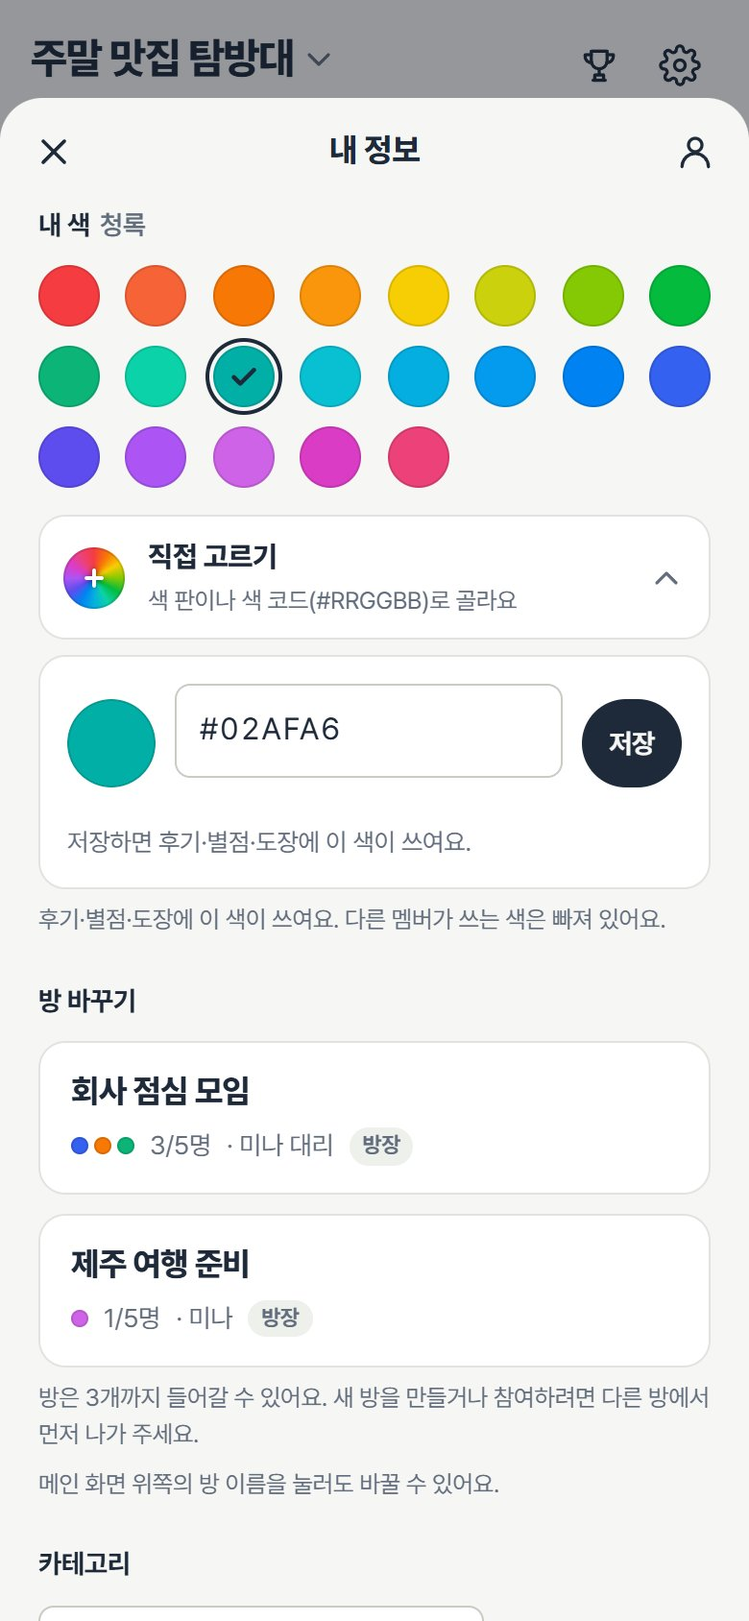
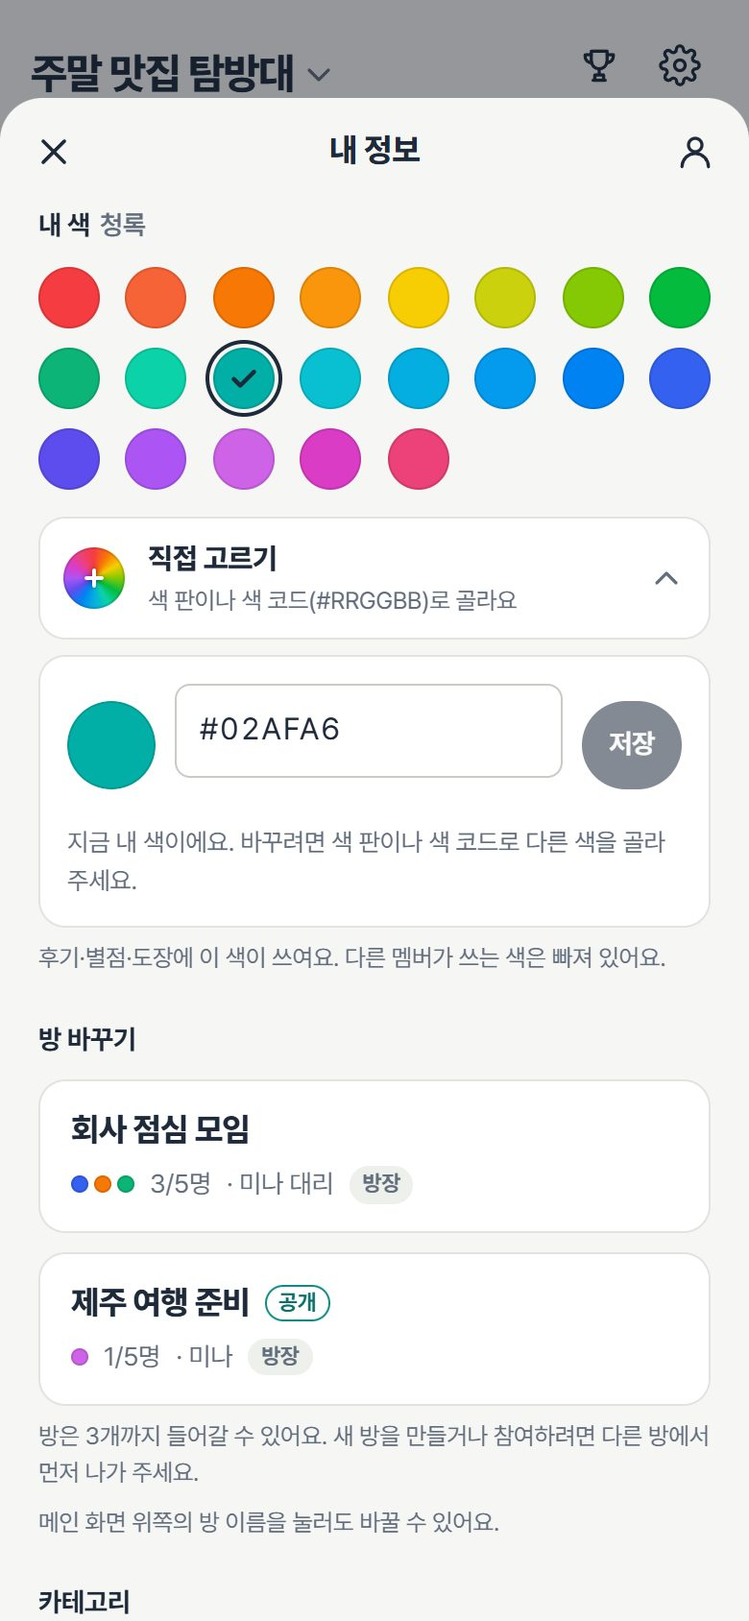
README: v0.2.0 public rooms, new screenshots, English README (README.en.md)

diff --git a/README.md b/README.md
@@ -8,6 +8,8 @@
   친구들과 함께 가고 싶은 곳을 모으고, 다녀온 곳엔 방문할 때마다 각자 별점과 후기를 남기는 장소 기록 웹앱
 </p>
 
+<p align="center"><b>한국어</b> · <a href="README.en.md">English</a></p>
+
 <p align="center">
   <img alt="PWA" src="https://img.shields.io/badge/PWA-홈_화면_앱-1f6f5c">
   <img alt="Supabase" src="https://img.shields.io/badge/Supabase-Auth·Postgres·Storage-3ecf8e">
@@ -17,54 +19,66 @@
 </p>
 
 <p align="center">
-  <img src="docs/images/room-picker.jpg" width="23%" alt="방 고르기">
+  <img src="docs/images/picker.jpg" width="23%" alt="방 고르기와 공개 방 둘러보기">
   <img src="docs/images/main.jpg" width="23%" alt="5명 방의 장소 목록">
-  <img src="docs/images/reviews.jpg" width="23%" alt="닉네임별 방문 후기">
-  <img src="docs/images/colors.jpg" width="23%" alt="무지개 24색과 직접 고르기">
+  <img src="docs/images/visit.jpg" width="23%" alt="공개 방 읽기 전용 보기">
+  <img src="docs/images/copy.jpg" width="23%" alt="내 방에 담기">
 </p>
 
 > 화면은 예시 데이터로 찍었습니다. 사진은 예시용으로 생성한 이미지이고, 실제 사용자 정보는 들어 있지 않습니다.
+
+## v0.2.0 새로 생긴 것: 공개 방
+
+- **공개 방 만들기**: 방을 만들 때 개인/공개를 고릅니다(만든 뒤에는 바꿀 수 없음). "자랑하고 싶은 우리 지도" 같은 목록을 공개 방으로 만들어 보세요.
+- **둘러보기**: 방 고르기 화면, 방 바꾸기 시트, 시작하기 화면의 🔍로 다른 사람들의 공개 방을 찾아 **읽기 전용**으로 봅니다(지금은 로그인한 사용자만).
+- **내 방에 담기**: 마음에 드는 장소를 내 방 중 하나에 담습니다. 기본은 "가고 싶은 곳"입니다.
+- **초대 코드 다시 만들기**: 방장은 내 정보에서 새 초대 코드를 만들 수 있고, 예전 코드는 바로 못 쓰게 됩니다.
+
+<p align="center">
+  <img src="docs/images/create-public.jpg" width="23%" alt="공개 방 만들기와 동의">
+  <img src="docs/images/explore.jpg" width="23%" alt="공개 방 둘러보기">
+  <img src="docs/images/join-consent.jpg" width="23%" alt="공개 방 참여 안내">
+  <img src="docs/images/invite-regen.jpg" width="23%" alt="초대 코드 다시 만들기">
+</p>
+
+| 공개 방에서 보이는 것 | 보이지 않는 것 |
+|---|---|
+| 장소·카테고리·주소·지도 링크, 함께 쓰는 메모, 사진(썸네일 중심), 방문한 **달**, 별점·후기, 닉네임 | 아이디, 초대 코드, 찜, 정확한 날짜, 월드컵 기록 |
+
+공개 방은 한 사람이 방장인 방 1개까지, 7일에 1개(지운 방 포함), 전체 30개까지입니다. 공개 방에 참여하거나 그 방 코드로 가입할 때는 안내를 읽고 동의해야 합니다.
+
+## 지금 되는 것
+
+**방(그룹)**
+- 방 하나에 최대 5명, 한 사람은 최대 3개 방까지. 로그인하면 방을 고르고, 메인 맨 위 **방 이름 ⌄**를 누르면 누구나 방을 바꾸거나 새로 만들고 코드로 참여합니다.
+- 초대 코드는 첫 멤버가 들어올 때까지 메인에 보이고, 그 뒤로는 멤버 모두가 내 정보에서 봅니다. 5명이 차 있을 때만 참여가 막힙니다.
+- 방 이름은 만들 때 정하고 방장만 바꿉니다. 나가기는 내 정보 맨 아래에 있고, 내 후기와 월드컵 기록이 지워집니다. 방장이 나가면 가장 먼저 들어온 멤버가 방장이 되고, 마지막 한 명이 나가면 방이 지워집니다.
+
+**멤버 색**
+- 화사한 무지개 24색 중 방 안에서 겹치지 않게 처음엔 무작위로 정해지고, 내 정보에서 바꿉니다.
+- **직접 고르기**로 색 판이나 색 코드(#RRGGBB)로 아무 색이나 정합니다. 다른 멤버 색과 거의 같으면 막고, 비슷하면 알려 줍니다.
+
+**기록**
+- 장소: 이름, 카테고리, 지도 링크, 주소, 함께 쓰는 메모, 사진 최대 10장. 네이버 지도 공유 문구나 구글 지도 링크를 붙여넣으면 이름·주소가 자동으로 채워집니다.
+- 세 가지 목록(가고 싶은 곳 / 다녀온 곳 / 찜), 검색(✕로 바로 지우기)과 카테고리 필터, 정렬.
+- 방문마다 날짜와 멤버별 별점(0.5점 단위)·후기. 장소 월드컵으로 다녀온 곳 중 최고의 장소를 뽑고, 각자 고른 1위에 그 사람 색 도장이 찍힙니다.
+
+**계정**
+- 아이디 + 비밀번호 로그인(메일 없음). 관리자가 만든 1회용 가입 코드(`W-XXXX-XXXX`)나 방의 8자리 초대 코드로 가입합니다. 틀린 코드는 접속한 곳마다 시간당 5회까지입니다(성공은 세지 않음).
+- 비밀번호 변경과 로그아웃은 별도 **계정 설정** 화면에 있습니다. 다크 모드를 지원하고, 홈 화면에 추가하면 앱처럼 열립니다.
+
+<p align="center">
+  <img src="docs/images/room-menu.jpg" width="23%" alt="방 이름을 눌러 방 바꾸기">
+  <img src="docs/images/reviews.jpg" width="23%" alt="닉네임별 방문 후기">
+  <img src="docs/images/colors.jpg" width="23%" alt="무지개 24색과 직접 고르기">
+  <img src="docs/images/dark.jpg" width="23%" alt="다크 모드">
+</p>
 
 ## 홍보 영상
 
 <a href="promo/promo-30s.mp4"><img src="promo/storyboard.jpg" alt="30초 홍보 영상 스토리보드 (누르면 영상)" width="100%"></a>
 
 30초 세로 영상: [promo/promo-30s.mp4](promo/promo-30s.mp4). 실제 앱 화면을 예시 데이터로 조작해 녹화했습니다(그룹 기능 이전 화면).
-
-## 지금 되는 것
-
-| 기능 | 내용 |
-|---|---|
-| 방(그룹) | 방 하나에 최대 5명, 한 사람이 최대 3개 방까지. 로그인하면 방을 고르고, 메인 위쪽 방 이름(⌄)을 누르면 누구나 방을 바꾸거나 새 방 만들기·코드로 참여(내 정보에서도 됨). 방 이름은 만들 때 정하고 방장만 바꿈 |
-| 멤버 색 | 화사한 무지개 24색 중 방 안에서 겹치지 않게 처음엔 무작위로 정해지고, 내 정보에서 바꿈. 마지막 "직접 고르기"로 색 판이나 색 코드(#RRGGBB)로 아무 색이나 고를 수 있음(다른 멤버 색과 거의 같으면 막고, 비슷하면 알려 줌). 후기·별점·도장에 그 색이 쓰이고, 글씨에는 바탕에서 잘 읽히게 자동으로 진하게(어두운 화면은 밝게) 바꾼 색을 씀 |
-| 계정 설정 | 내 정보 맨 아래 "계정 설정"에서 비밀번호 변경·로그아웃·버전 확인. 내 정보에는 방에 관한 것만 |
-| 초대 코드 | 첫 멤버가 들어올 때까지 메인 화면에 보이고, 그 뒤로는 멤버 모두가 내 정보에서 확인. 5명이 차 있을 때만 참여가 막힘. 방장은 내 정보에서 "초대 코드 다시 만들기"로 새 코드를 만들 수 있음(확인 후, 예전 코드는 바로 못 씀. 이미 들어온 멤버는 그대로) |
-| 공개 방 | 방을 만들 때 개인/공개를 고름(만든 뒤 못 바꿈, "이해했어요" 체크). 공개 방은 앱에 로그인한 누구나 읽기 전용으로 볼 수 있음. 보이는 것: 장소·카테고리·주소·지도 링크(네이버·구글·카카오 지도 주소만)·함께 쓰는 메모·사진·방문한 달·별점·후기·닉네임. 안 보이는 것: 아이디·초대 코드·찜·정확한 날짜(마지막 활동도 "최근 7일 안"처럼 묶음만)·월드컵 기록. 공개 방은 한 사람당 1개, 7일에 1개(지운 방 포함), 전체 30개까지. 공개 방 코드로 참여·가입할 때는 안내를 읽고 동의해야 함 |
-| 둘러보기 | 방 고르기 화면·방 바꾸기 시트·시작하기 화면의 돋보기(공개 방 둘러보기)에서 공개 방 목록(최근 활동순, 방 이름·소개로 찾기). 공개 방을 열면 멤버 화면과 같은 배치의 읽기 전용 보기("다녀온 곳"·평점순부터), 상세도 같은 배치. 방장·멤버는 내 정보에서 "방문자에게 보이는 모습"과 둘러보기 링크(`/r/<공개 키>`, 보기만) 공유 |
-| 내 방에 담기 | 둘러보는 공개 방의 장소를 내가 든 방에 담기(방을 고르고, 기본 "가고 싶은 곳"). 이름·주소·지도 링크·카테고리(같은 이름 → 기타 → 그 방 맨 아래 카테고리)만 옮기고 메모에 "‘<공개 방 이름>’에서 담음"을 남김. 사진·방문·후기·찜은 옮기지 않음. 같은 장소(이름 + 주소)가 이미 있으면 담지 않음 |
-| 나가기 | 내 정보 맨 아래. 내 후기와 월드컵 기록은 지워지고 담은 장소·사진은 남음. 방장이 나가면 가장 먼저 들어온 멤버가 방장, 마지막 한 명이 나가면 방이 지워짐 |
-| 장소 담기 | 이름, 카테고리, 지도 링크, 주소, 함께 쓰는 메모, 사진 최대 10장(목록·둘러보기용 320px 썸네일도 같이 만듦). 네이버 지도 공유 문구나 구글 지도 링크를 붙여넣으면 이름·주소가 자동으로 채워짐 |
-| 세 가지 목록 | 가고 싶은 곳 / 다녀온 곳 / 찜. 검색과 카테고리 필터, 최근 방문·추가·평점순 정렬 |
-| 방문 기록 | 같은 곳을 여러 번 가도 방문마다 날짜와 멤버별 별점(0.5점 단위)·후기(닉네임으로 표시) |
-| 장소 월드컵 | 연도·카테고리별로 다녀온 곳을 1:1로 골라 최고의 장소 뽑기. 각자 고른 1위에 그 사람 색 도장 |
-| 아이디 로그인 | 이메일 없이 아이디 + 비밀번호 (메일을 보내지 않음) |
-| 초대 코드 가입 | 관리자가 만든 1회용 가입 코드(`W-XXXX-XXXX`) 또는 방의 8자리 초대 코드로 직접 가입. 틀린 코드는 접속한 곳마다 시간당 5회까지(성공은 세지 않음) |
-| 기타 | 다크 모드, 홈 화면에 추가하면 앱처럼 열림, 다른 앱에 다녀오면 최신 내용 다시 불러오기 |
-
-<p align="center">
-  <img src="docs/images/room-new.jpg" width="23%" alt="방 이름을 눌러 방 바꾸기·새 방 만들기">
-  <img src="docs/images/cup-records.jpg" width="23%" alt="월드컵 기록">
-  <img src="docs/images/leave.jpg" width="23%" alt="계정 설정 줄과 방에서 나가기">
-  <img src="docs/images/dark-main.jpg" width="23%" alt="다크 모드">
-</p>
-
-## 다음에 만들 것
-
-결정 사항과 순서는 [docs/plan.md](docs/plan.md), 그룹 기능 설계는 [docs/groups-design.md](docs/groups-design.md), 공개 방 설계는 [docs/public-rooms-design.md](docs/public-rooms-design.md)에 있습니다.
-
-- 공개 방을 로그인 없이 누구나 보기(설계 문서 §10 "누구나 보기로 넓히려면": 동의 다시 받기, 처리방침·신고, 횟수 제한·캐시)
-- 앱 이름·아이콘을 그룹용으로, 서버 서비스·경로 이름 정리
-- 그다음: 기존 사진의 썸네일 채우기, 계정 삭제, 약관·개인정보 처리방침, 안드로이드 앱(TWA)
 
 ## 구성
 
@@ -73,7 +87,7 @@ flowchart LR
   B["휴대폰 브라우저<br/>index.html"] -->|화면, /api/*| T["Cloudflare Tunnel"]
   T --> S["홈 서버 Node<br/>deploy/home/server.cjs"]
   B -->|로그인 · 데이터 · 사진| SB[("Supabase<br/>Auth · Postgres + RLS · Storage")]
-  S -->|가입 · 공간 참여<br/>secret key| SB
+  S -->|가입 · 참여 · 공개 방 보기<br/>secret key| SB
   S -->|지도 링크 읽기| G["Google 지도"]
 ```
 
@@ -82,45 +96,56 @@ flowchart LR
 | 화면 | `index.html` | 앱 전체(바닐라 JS, supabase-js v2를 CDN으로). 주소·공개 키 자리는 비워 두고 서버가 보낼 때 채움 |
 | 서버 | `deploy/home/server.cjs` | 정해진 파일만 메모리에서 보내고, 설정값을 화면에 넣음. 127.0.0.1에서만 받음 |
 | 가입 | `deploy/home/signup.cjs` | `POST /api/signup`, `POST /api/join`(공개 방이면 동의 확인). secret key는 이 서버에만 있음 |
-| 공개 방 | `deploy/home/public.cjs` | `GET /api/public/rooms…`(로그인한 사람만, 허용 목록 필터·캐시·횟수 제한·사진 서명), `/r/<공개 키>`. `PUBLIC_ROOMS=on`일 때만 켬 |
+| 공개 방 | `deploy/home/public.cjs` | `GET /api/public/rooms…`(로그인한 사람만, 허용 목록 필터·캐시·횟수 제한·사진 서명과 하루 한도), `/r/<공개 키>`. `PUBLIC_ROOMS=on`일 때만 켬 |
 | 지도 | `api/place.js` | 구글 지도 링크 → 장소 이름·주소 (로그인한 사람만) |
-| DB | `supabase/schema.sql` → `friends-keepalive.sql` → `friends-signup.sql` → `groups.sql` → `colors.sql` → `public.sql` | 표, 함수, 권한, RLS, 사진 저장소, 여러 방·5명 규칙, 무지개 24색·직접 고른 색, 공개 방. 순서대로 실행 (되돌리기는 `public_rollback.sql` → `colors_rollback.sql` → `groups_rollback.sql` 순서, 자세한 것은 `docs/public-rooms-design.md` §2.8·`docs/groups-design.md` §6·§10.8) |
+| DB | `supabase/schema.sql` → `friends-keepalive.sql` → `friends-signup.sql` → `groups.sql` → `colors.sql` → `public.sql` | 표, 함수, 권한, RLS, 사진 저장소, 여러 방·5명 규칙, 멤버 색, 공개 방. 순서대로 실행(되돌리기는 거꾸로: `public_rollback.sql` → `colors_rollback.sql` → `groups_rollback.sql`) |
 | 배포 | `deploy/home/install.sh`, `deploy.ps1`, `*.service`, `*.timer` | 커밋 단위 릴리스, 실패하면 이전 릴리스로 되돌림, 하루 한 번 무료 프로젝트 깨우기 |
+
+설계 문서: [그룹 기능](docs/groups-design.md) · [공개 방](docs/public-rooms-design.md) · [공개 방 아이디어](docs/ideation-public-rooms.md) · [계획과 결정](docs/plan.md)
 
 ## 직접 설치하기
 
-1. **Supabase**: 새 프로젝트를 만들고 SQL Editor에서 `supabase/schema.sql`, `supabase/friends-keepalive.sql`, `supabase/friends-signup.sql`, `supabase/groups.sql`, `supabase/colors.sql`, `supabase/public.sql`을 차례로 실행합니다. Authentication에서 **Allow new users to sign up은 끕니다**(가입은 서버가 초대 코드를 확인한 뒤 관리자 API로 만듭니다). Site URL에는 앱 주소를 넣습니다.
+1. **Supabase**: 새 프로젝트를 만들고 SQL Editor에서 `supabase/` 파일을 위 순서대로 하나씩 실행합니다(`schema.sql` → … → `public.sql`). Authentication에서 **Allow new users to sign up은 끕니다**(가입은 서버가 초대 코드를 확인한 뒤 관리자 API로 만듭니다). Site URL에는 앱 주소를 넣습니다.
 2. **서버**(Ubuntu, Node 20+): 저장소 맨 위 폴더에서
    ```powershell
-   pwsh -File deploy/home/deploy.ps1 -Target <ssh 대상> -SupabaseUrl https://<프로젝트 ID>.supabase.co -SupabaseKey sb_publishable_...
+   pwsh -File deploy/home/deploy.ps1 -Target <ssh 대상> -SupabaseUrl https://<프로젝트 ID>.supabase.co -SupabaseKey sb_publishable_... -PublicOrigin https://<앱 주소> -LoginIdDomain id.<도메인>
    ```
-   서버에서 `install.sh`가 릴리스를 `/srv/our-places/releases/<커밋>`에 풀고 서비스(127.0.0.1:8090)를 시작합니다.
+   `install.sh`가 릴리스를 `/srv/our-places/releases/<커밋>`에 풀고 서비스(127.0.0.1:8090)를 시작합니다. 다음 배포부터는 `-Target`만 넣으면 설정이 유지됩니다.
 3. **가입 켜기**: Supabase의 secret key를 서버에서 숨김 입력으로 넣습니다.
    ```bash
    ssh -t <ssh 대상> "sudo bash /srv/our-places/current/deploy/home/set-secret.sh"
    ```
 4. **공개**: Cloudflare Tunnel 같은 리버스 프록시로 `http://127.0.0.1:8090`을 원하는 주소에 연결합니다.
 5. **가입 코드**: `ssh <ssh 대상> "sudo bash /srv/our-places/current/deploy/home/invite.sh new <메모>"`
-6. **공개 방 둘러보기(선택)**: `supabase/public.sql`을 실행한 뒤 서버 설정 파일 `/etc/our-places/env`에 `PUBLIC_ROOMS=on`을 넣고 서비스를 다시 시작합니다(기본은 꺼짐, 둘러보기 사진만 끄려면 `PUBLIC_PHOTOS=off`). 둘러보기 목록에서 방을 숨기는 관리자 스크립트는 `deploy/home/public.sh`(list / hide / show)입니다. 이미 쓰는 프로젝트에 올리는 순서·확인 쿼리·되돌리기는 `docs/public-rooms-design.md` §11.
+6. **공개 방 켜기(선택)**: 서버 설정 파일 `/etc/our-places/env`에 `PUBLIC_ROOMS=on`을 넣고 `sudo systemctl restart our-places`(기본은 꺼짐, 둘러보기 사진만 끄려면 `PUBLIC_PHOTOS=off`). 둘러보기 목록에서 방을 숨기는 관리자 스크립트는 `deploy/home/public.sh`(list / hide / show)입니다. 이미 쓰는 프로젝트에 올리는 순서·확인 쿼리·되돌리기는 [공개 방 설계 §11](docs/public-rooms-design.md).
 
-> 서버 쪽 서비스·경로 이름(`our-places`, `/srv/our-places`, `/etc/our-places`)은 지금 돌고 있는 서버와 맞추려고 그대로 두었습니다. 초기 모델을 배포할 때 `group-place`로 옮길 예정입니다.
+> 서버 쪽 서비스·경로 이름(`our-places`, `/srv/our-places`, `/etc/our-places`)은 지금 돌고 있는 서버와 맞추려고 그대로 두었습니다. 나중에 `group-place`로 옮길 예정입니다.
 
 ## 보안
 
 - 화면에는 **Publishable key**만 들어갑니다. secret key는 서버의 root 전용 설정 파일에만 있고, 저장소·화면·로그·명령줄 인자에는 넣지 않습니다.
-- 누가 무엇을 볼 수 있는지는 DB의 RLS 정책으로 막고, 가입·참여는 서버가 코드와 시도 횟수를 확인한 뒤 처리합니다.
+- 누가 무엇을 볼 수 있는지는 DB의 RLS 정책으로 막습니다. 공개 방은 RLS를 넓히지 않고, 서버가 service role 전용 함수의 결과를 허용 목록대로 다시 담아 보냅니다.
+- 가입·참여는 서버가 코드, 시도 횟수, 공개 방 동의를 확인한 뒤 처리합니다.
 - 서버는 설정이 비었거나 자리표시값 그대로이거나, 연결하면 안 되는 프로젝트를 가리키면 시작하지 않습니다.
 - 취약점은 [SECURITY.md](SECURITY.md)를 따라 비공개로 알려 주세요.
 
 ## 개발
 
 ```bash
-node --test deploy/home/*.test.cjs      # 서버 테스트: 가입·참여·공개 방 API (가짜 Supabase)
-cd dev/sqltest && npm install && npm test   # SQL 시험: PGlite로 schema.sql → … → colors.sql → public.sql 실행, 권한·제한·색·공개 방 확인 + 화면 정적 시험(public-client)
-node dev/mock/serve.mjs                 # 가짜 Supabase로 화면 띄우기 (공개 방·둘러보기 포함, dev/mock/shoot.py로 화면 캡처와 읽기 전용 화면 자동 확인)
-bash scripts/leak-check.sh              # 커밋 전 비밀 값·다른 배포 값 검사
-git config core.hooksPath .githooks     # 커밋할 때 leak-check 자동 실행
+node --test deploy/home/*.test.cjs          # 서버 시험 108개: 가입·참여·공개 방 API (가짜 Supabase)
+cd dev/sqltest && npm install && npm test   # SQL 시험 53개: PGlite로 schema.sql → … → public.sql 실행, 권한·제한·색·공개 방 확인
+node dev/mock/serve.mjs                     # 가짜 Supabase로 화면 띄우기 (dev/mock/shoot.py로 화면 캡처와 읽기 전용 화면 자동 확인)
+bash scripts/leak-check.sh                  # 커밋 전 비밀 값·다른 배포 값 검사
+git config core.hooksPath .githooks         # 커밋할 때 leak-check 자동 실행
 ```
+
+빌드 번호는 `v버전-배포일(YYMMDD)-무작위 5자`로 씁니다(예: `v0.2.0-261022-bcba1`, 계정 설정 맨 아래에 보임).
+
+## 다음에 만들 것
+
+- 공개 방을 로그인 없이 누구나 보기([공개 방 설계 §10](docs/public-rooms-design.md) "누구나 보기로 넓히려면": 동의 다시 받기, 처리방침·문의·신고, 횟수 제한·캐시)
+- 앱 이름·아이콘을 그룹용으로, 서버 서비스·경로 이름 정리
+- 기존 사진의 썸네일 채우기, 계정 삭제, 약관·개인정보 처리방침, 안드로이드 앱(TWA)
 
 ## 원래 프로젝트와의 관계
 

diff --git a/README.en.md b/README.en.md
@@ -1,0 +1,156 @@
+<p align="center">
+  <img src="icons/icon-192.png" width="96" alt="group-place icon">
+</p>
+
+<h1 align="center">group-place</h1>
+
+<p align="center">
+  A places diary for friend groups: collect the places you want to go together, and after every visit leave your own rating and review.
+</p>
+
+<p align="center"><a href="README.md">한국어</a> · <b>English</b></p>
+
+<p align="center">
+  <img alt="PWA" src="https://img.shields.io/badge/PWA-installable-1f6f5c">
+  <img alt="Supabase" src="https://img.shields.io/badge/Supabase-Auth·Postgres·Storage-3ecf8e">
+  <img alt="Node" src="https://img.shields.io/badge/Node-20+-339933">
+  <img alt="Version" src="https://img.shields.io/badge/version-v0.2.0-1f6f5c">
+  <img alt="Status" src="https://img.shields.io/badge/status-MVP_testing-d9822b">
+</p>
+
+<p align="center">
+  <img src="docs/images/picker.jpg" width="23%" alt="Room picker with public room search">
+  <img src="docs/images/main.jpg" width="23%" alt="Places in a five-member room">
+  <img src="docs/images/visit.jpg" width="23%" alt="Read-only view of a public room">
+  <img src="docs/images/copy.jpg" width="23%" alt="Copy a place to one of my rooms">
+</p>
+
+> The UI is in Korean. Screenshots use sample data; the photos are generated examples and contain no real user information.
+
+## New in v0.2.0: public rooms
+
+- **Public rooms**: when creating a room, choose private or public. The choice cannot be changed later. Think of a public room as "our map worth showing off", e.g. a city's best ramen spots.
+- **Browse**: the 🔍 button on the room picker, the room switcher sheet and the start screen opens a list of other people's public rooms, which you can view **read-only** (signed-in users only for now).
+- **Copy to my room** (내 방에 담기): save a place you like into one of your rooms; it lands in "want to go" (가고 싶은 곳) by default.
+- **Regenerate invite code**: a room owner can create a new invite code from the room settings (내 정보); the old code stops working immediately.
+
+<p align="center">
+  <img src="docs/images/create-public.jpg" width="23%" alt="Creating a public room with consent">
+  <img src="docs/images/explore.jpg" width="23%" alt="Browsing public rooms">
+  <img src="docs/images/join-consent.jpg" width="23%" alt="Notice when joining a public room">
+  <img src="docs/images/invite-regen.jpg" width="23%" alt="Regenerating the invite code">
+</p>
+
+| Visible in a public room | Never visible |
+|---|---|
+| Places, categories, addresses, map links, the shared memo, photos (mostly thumbnails), the **month** of each visit, ratings and reviews, nicknames | Login IDs, invite codes, favorites, exact dates, world cup records |
+
+Limits: each person can own one public room, create at most one every 7 days (deleted rooms count), and there are at most 30 public rooms in total. Joining a public room, or signing up with its invite code, requires reading and accepting a notice.
+
+## Features
+
+**Rooms (groups)**
+- Up to 5 members per room; a person can be in up to 3 rooms. After signing in you pick a room; tapping the **room name ⌄** at the top lets anyone switch rooms, create a new one or join with a code.
+- The invite code is shown on the main screen until the first member joins; after that every member can see it in the room settings. Joining is blocked only while the room has 5 members.
+- The room name is set at creation and only the owner can rename it. Leaving is at the bottom of the room settings and deletes your reviews and world cup records. If the owner leaves, the earliest member becomes owner; when the last member leaves, the room is deleted.
+
+**Member colors**
+- 24 bright colors in rainbow order; a random unused color is assigned when you join, and you can change it.
+- **Custom color** (직접 고르기): pick any color with a color picker or a hex code (#RRGGBB). Colors almost identical to another member's are rejected; similar ones get a warning.
+
+**Records**
+- Places: name, category, map link, address, shared memo, up to 10 photos. Pasting a Naver Maps share text or a Google Maps link fills in the name and address.
+- Three lists (want to go / visited / favorites), search with a clear (✕) button, category filters and sorting.
+- Every visit has a date and a rating (0.5 steps) and review per member. A "place world cup" picks your favorite visited place, stamped in each member's color.
+
+**Accounts**
+- Username + password, no email. Sign up with a one-time admin code (`W-XXXX-XXXX`) or a room's 8-character invite code. Wrong codes are limited to 5 per hour per network (successful attempts don't count).
+- Password change and sign-out live in a separate account screen (계정 설정). Dark mode; add it to the home screen to use it like an app.
+
+<p align="center">
+  <img src="docs/images/room-menu.jpg" width="23%" alt="Switching rooms from the room name">
+  <img src="docs/images/reviews.jpg" width="23%" alt="Per-member visit reviews">
+  <img src="docs/images/colors.jpg" width="23%" alt="Rainbow palette and custom color">
+  <img src="docs/images/dark.jpg" width="23%" alt="Dark mode">
+</p>
+
+## Promo video
+
+<a href="promo/promo-30s.mp4"><img src="promo/storyboard.jpg" alt="Storyboard of the 30-second promo video (click to play)" width="100%"></a>
+
+30-second vertical video: [promo/promo-30s.mp4](promo/promo-30s.mp4), recorded from the real app with sample data (before the group features).
+
+## Architecture
+
+```mermaid
+flowchart LR
+  B["Phone browser<br/>index.html"] -->|page, /api/*| T["Cloudflare Tunnel"]
+  T --> S["Home server (Node)<br/>deploy/home/server.cjs"]
+  B -->|auth · data · photos| SB[("Supabase<br/>Auth · Postgres + RLS · Storage")]
+  S -->|signup · join · public room views<br/>secret key| SB
+  S -->|map link lookup| G["Google Maps"]
+```
+
+| Area | Files | Role |
+|---|---|---|
+| Client | `index.html` | The whole app (vanilla JS, supabase-js v2 from a CDN). The Supabase URL/key are placeholders the server fills in when serving the page |
+| Server | `deploy/home/server.cjs` | Serves an allowlist of files from memory and injects settings; listens on 127.0.0.1 only |
+| Signup | `deploy/home/signup.cjs` | `POST /api/signup`, `POST /api/join` (consent check for public rooms). The secret key lives only on this server |
+| Public rooms | `deploy/home/public.cjs` | `GET /api/public/rooms…` (signed-in users only; allowlist filter, cache, rate limits, signed photo URLs with daily budgets) and `/r/<public key>`. Enabled only with `PUBLIC_ROOMS=on` |
+| Maps | `api/place.js` | Google Maps link → place name and address (signed-in users only) |
+| Database | `supabase/schema.sql` → `friends-keepalive.sql` → `friends-signup.sql` → `groups.sql` → `colors.sql` → `public.sql` | Tables, functions, grants, RLS, photo storage, multi-room rules, member colors, public rooms. Run in this order (roll back in reverse: `public_rollback.sql` → `colors_rollback.sql` → `groups_rollback.sql`) |
+| Deploy | `deploy/home/install.sh`, `deploy.ps1`, `*.service`, `*.timer` | One release per commit, automatic rollback on a failed health check, a daily keepalive for the free Supabase project |
+
+Design docs (Korean): [groups](docs/groups-design.md) · [public rooms](docs/public-rooms-design.md) · [public room ideation](docs/ideation-public-rooms.md) · [plan and decisions](docs/plan.md)
+
+## Self-hosting
+
+1. **Supabase**: create a project and run the `supabase/` files above one by one in the SQL Editor (`schema.sql` → … → `public.sql`). Under Authentication, **turn off "Allow new users to sign up"** (accounts are created by the server through the admin API after it checks an invite code). Set the Site URL to your app's address.
+2. **Server** (Ubuntu, Node 20+), from the repository root:
+   ```powershell
+   pwsh -File deploy/home/deploy.ps1 -Target <ssh target> -SupabaseUrl https://<project id>.supabase.co -SupabaseKey sb_publishable_... -PublicOrigin https://<app address> -LoginIdDomain id.<your domain>
+   ```
+   `install.sh` unpacks the release into `/srv/our-places/releases/<commit>` and starts the service on 127.0.0.1:8090. Later deploys only need `-Target`; settings are kept.
+3. **Enable signup**: enter the Supabase secret key on the server (hidden input):
+   ```bash
+   ssh -t <ssh target> "sudo bash /srv/our-places/current/deploy/home/set-secret.sh"
+   ```
+4. **Expose it**: point a reverse proxy such as a Cloudflare Tunnel at `http://127.0.0.1:8090`.
+5. **Signup codes**: `ssh <ssh target> "sudo bash /srv/our-places/current/deploy/home/invite.sh new <note>"`
+6. **Public rooms (optional)**: add `PUBLIC_ROOMS=on` to `/etc/our-places/env` and run `sudo systemctl restart our-places` (off by default; `PUBLIC_PHOTOS=off` hides photos while browsing). `deploy/home/public.sh` (list / hide / show) hides a room from the browse list. For upgrading an existing project, see [public rooms design §11](docs/public-rooms-design.md).
+
+> The service and path names on the server (`our-places`, `/srv/our-places`, `/etc/our-places`) match the currently running server and will be renamed to `group-place` later.
+
+## Security
+
+- Only the **publishable key** reaches the browser. The secret key lives only in a root-only settings file on the server, never in the repository, the page, logs or command-line arguments.
+- Row-level security (RLS) decides who can read what. Public rooms do not widen RLS: the server calls service-role-only functions and re-packs the result through an allowlist.
+- Signup and joining go through the server, which checks codes, attempt limits and public-room consent.
+- The server refuses to start with empty or placeholder settings, or when pointed at a project it must not use.
+- Please report vulnerabilities privately as described in [SECURITY.md](SECURITY.md).
+
+## Development
+
+```bash
+node --test deploy/home/*.test.cjs          # 108 server tests: signup, join and public room APIs (fake Supabase)
+cd dev/sqltest && npm install && npm test   # 53 SQL tests: PGlite runs schema.sql → … → public.sql and checks grants, limits, colors, public rooms
+node dev/mock/serve.mjs                     # run the UI against a fake Supabase (dev/mock/shoot.py takes screenshots and checks the read-only view)
+bash scripts/leak-check.sh                  # pre-commit check for secrets and values of other deployments
+git config core.hooksPath .githooks         # run leak-check on every commit
+```
+
+Build numbers look like `vVERSION-YYMMDD-xxxxx` with five random hex characters (e.g. `v0.2.0-261022-bcba1`, shown at the bottom of the account screen).
+
+## Roadmap
+
+- Let anyone (not only signed-in users) view public rooms — see "누구나 보기로 넓히려면" in [public rooms design §10](docs/public-rooms-design.md): re-consent, privacy policy, contact and reporting, rate limits and caching
+- App name and icon for groups; rename the server service and paths
+- Thumbnails for existing photos, account deletion, terms and privacy policy, an Android app (TWA)
+
+## Relationship to the original project
+
+group-place started from a private two-person places diary and is now a **separate project**: source code and databases are fully separated and versions are numbered independently. Improvements from the original app may be ported here after review, but nothing from this repository flows back.
+
+## License
+
+Not chosen yet. Until a license is added, copying or redistributing requires the author's permission.
